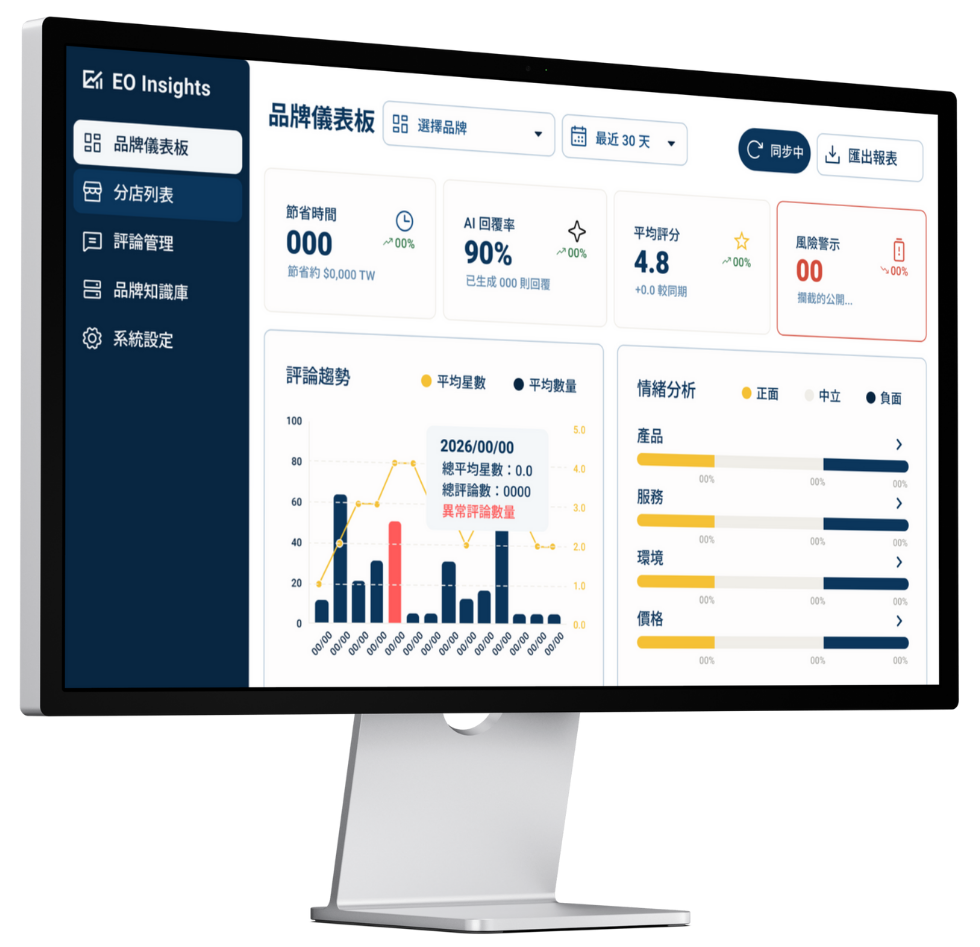
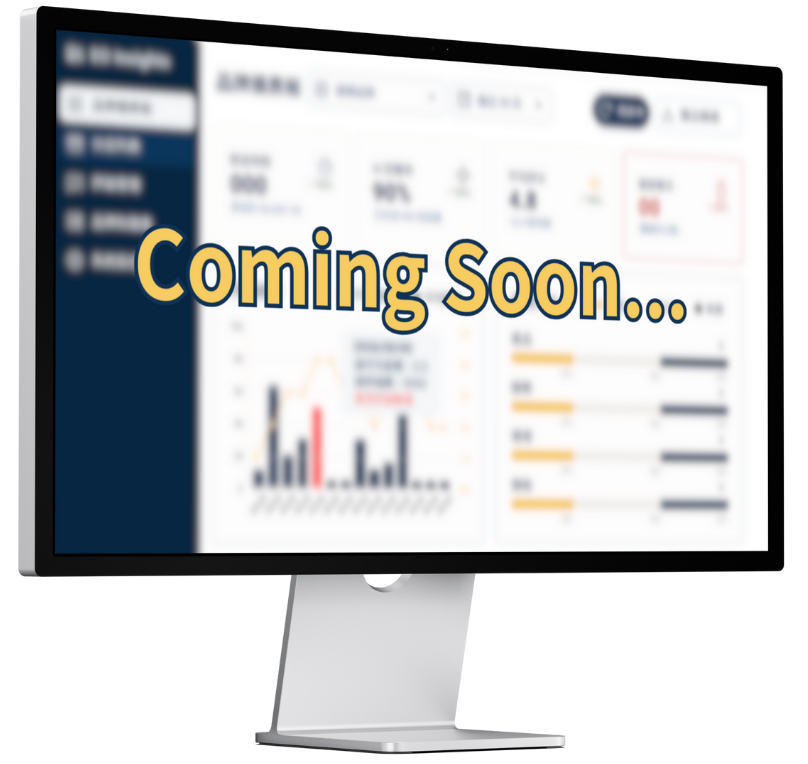
renew

diff --git a/restaurant.html b/restaurant.html
@@ -728,9 +728,9 @@
                 </div>
             </div>
 
-            <!-- 服務 2: LINE OA 串接 -->
+            <!-- 服務 2: Line OA設計服務 -->
             <div class="addon-card">
-                <h3>LINE OA 串接</h3>
+                <h3>LINE OA 設計服務</h3>
                 <div class="tags">
                     <span>#累積會員</span>
                     <span>#線上點餐</span>
